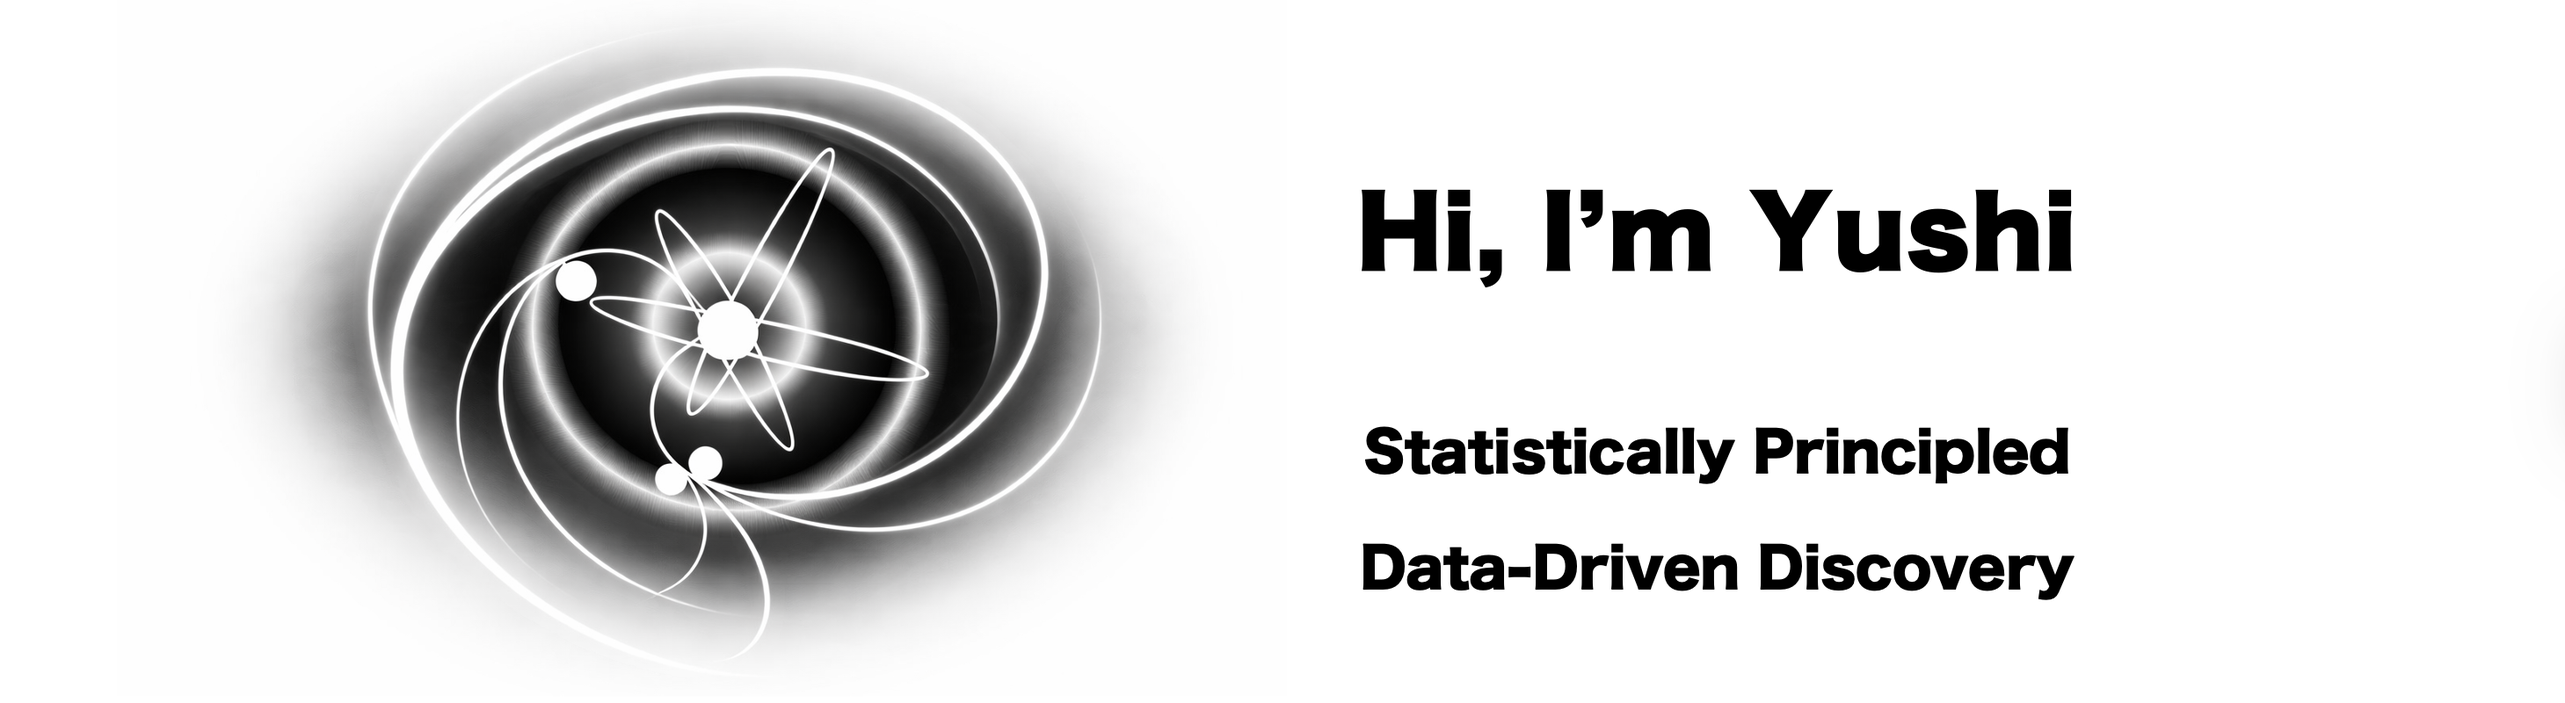
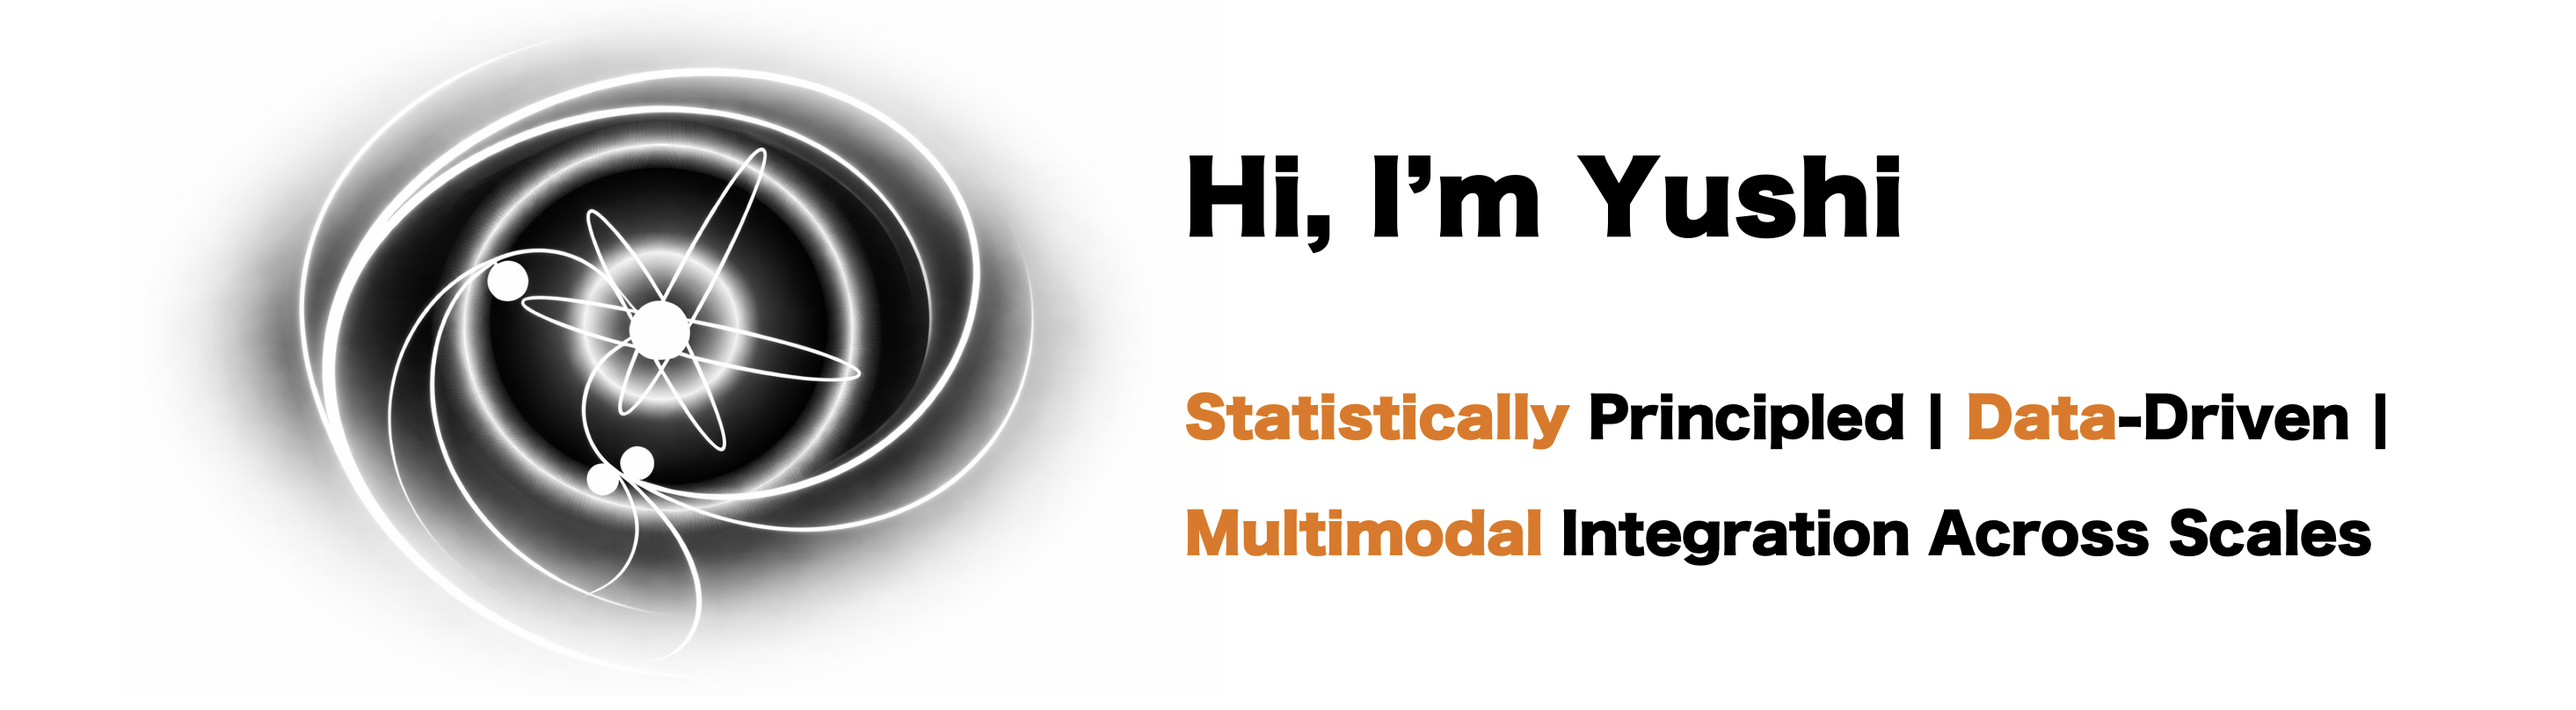
fix broken links and update title

Changed region(s): [[0.0624, 0.0938, 0.9356, 0.875]]

diff --git a/404.html b/404.html
@@ -8,40 +8,34 @@
     <meta name="author" content="Yushi Tang">
     <meta name="description" content="Yushi Tang&#39;s personal website">
     <meta name="keywords" content="blog, website, researcher">
-    
+
     <meta property="og:site_name" content="Yushi Tang">
     <meta property="og:title" content="Yushi Tang">
     <meta property="og:description" content="Yushi Tang&#39;s personal website">
     <meta property="og:type" content="website">
-    <meta property="og:url" content="https://yushift.github.io/404.html">
+    <meta property="og:url" content="https://yushift.github.io/">
     <meta property="og:image" content="https://yushift.github.io/">
     <meta name="twitter:card" content="summary">
-    <meta name="twitter:site" content="https://yushift.github.io/404.html">
+    <meta name="twitter:site" content="https://yushift.github.io/">
     <meta name="twitter:image" content="https://yushift.github.io/">
 
-    <base href="https://yushift.github.io/404.html">
+    <base href="https://yushift.github.io/">
     <title>Yushi Tang</title>
 
-    <link rel="canonical" href="https://yushift.github.io/404.html">
-    
-    <link  rel="stylesheet" href="https://fonts.googleapis.com/css?family=Fira+Mono:400,700">
+    <link rel="canonical" href="https://yushift.github.io/">
+
+    <link rel="stylesheet" href="https://fonts.googleapis.com/css?family=Fira+Mono:400,700">
     <link rel="stylesheet" href="https://yushift.github.io/css/normalize.min.css">
     <link rel="stylesheet" href="https://yushift.github.io/css/style.min.css">
-
-    
-
-    
 
     <link rel="icon" type="image/png" href="https://yushift.github.io/images/favicon-32x32.png" sizes="32x32">
     <link rel="icon" type="image/png" href="https://yushift.github.io/images/favicon-16x16.png" sizes="16x16">
 
-    
-      <link rel="alternate" href="https://yushift.github.io/index.xml" type="application/rss+xml" title="Yushi Tang">
-      <link href="https://yushift.github.io/index.xml" rel="feed" type="application/rss+xml" title="Yushi Tang" />
-    
+    <link rel="alternate" href="https://yushift.github.io/index.xml" type="application/rss+xml" title="Yushi Tang">
+    <link href="https://yushift.github.io/index.xml" rel="feed" type="application/rss+xml" title="Yushi Tang" />
+
 
     <meta name="generator" content="Hugo 0.55.6" />
-    
     <style>
       footer {
         text-align: center;
@@ -51,75 +45,40 @@
         color: white;
       }
      </style>
-    
   </head>
 
   <body class="">
     <main class="wrapper">
       <nav class="navigation">
+
   <section class="container">
     <a class="navigation-title" href="/">Yushi Tang</a>
     <input type="checkbox" id="menu-control"/>
     <label class="menu-mobile  float-right " for="menu-control">
       <span class="btn-mobile  float-right ">&#9776;</span>
       <ul class="navigation-list">
-        
-          
             <li class="navigation-item  align-center ">
-              <a class="navigation-link" href="https://yushift.github.io/en/about/about_me.html">About</a>
+              <a class="navigation-link" href="https://yushift.github.io/en/publication/publication_summary.html">Publication</a>
             </li>
-          
-            <li class="navigation-item  align-center ">
-              <a class="navigation-link" href="https://yushift.github.io/en/research/research_summary.html">Research</a>
-            </li>
-          
-            <li class="navigation-item  align-center ">
-              <a class="navigation-link" href="https://yushift.github.io/en/cv/yushi_tang_cv.pdf">CV</a>
-            </li>
-          
-            <li class="navigation-item  align-center ">
-              <a class="navigation-link" href="https://yushift.github.io/en/blog/yushi_blog.html">Blog</a>
-            </li>
-          
             <li class="navigation-item  align-center ">
               <a class="navigation-link" href="https://yushift.github.io/en/teaching/teaching_summary.html">Teaching</a>
             </li>
-          
             <li class="navigation-item  align-center ">
               <a class="navigation-link" href="https://yushift.github.io/en/software/software_summary.html">Software</a>
             </li>
-          
             <li class="navigation-item  align-center ">
-              <a class="navigation-link" href="https://yushift.github.io/en/contact/contact_yushi.html">Contact</a>
+              <a class="navigation-link" href="mailto:yushi.tang@princeton.edu">Contact</a>
             </li>
-          
-        
-        
-          
-          
-          
             <li class= " mobile-menu-lang-separator-centered ">
               <hr />
             </li>
-          
-          
-            
-          
-            
-              
-                
-                  <li class="multilingual-separator">
-                    <p>|</p>
-                  </li>
-                
-                
-              
-              <li class="navigation-item  align-center ">
-                <a href="https://yushift.github.io/zh/">中文</a>
-              </li>
-            
-          
-        
+            <li class="multilingual-separator">
+              <p>|</p>
+            </li>
+            <li class="navigation-item  align-center ">
+              <a href="https://yushift.github.io/zh/">中文</a>
+            </li>
+
       </ul>
     </label>
   </section>
@@ -127,30 +86,63 @@
 
 
       <div class="content">
-        
-  <section class="container centered">
-  <div class="error">
-    <h1>404</h1>
-    <h2>Page Not Found</h2>
-    <p>Sorry, this page does not exist.<br />You can head back to <a href="https://yushift.github.io/">homepage</a>.</p>
-  </div>
-</section>
 
+
+  <section class="container">
+  <div class="about">
+
+    <img src="https://yushift.github.io/images/title.png" alt="avatar">
+
+    <hr style="border: none; height: 1px; background-color: #dcdcdc; width: 100%; margin: 5px auto;">
+
+    <div class="about centered">
+    <ul>
+      <a href="https://yushift.github.io/en/about/bio.html">Bio</a>
+    </ul>
+    <ul>
+      <a href="https://yushift.github.io/en/research/research_summary.html">Research</a>
+    </ul>
+    <ul>
+      <a href="https://scholar.google.com/citations?user=VSPpxuUAAAAJ&hl=en">GS</a>
+    </ul>
+    <ul>
+      <a href="https://yushift.github.io/en/contact/contact_summary.html">Contact</a>
+    </ul>
+    </div>
+
+    <hr style="border: none; height: 1px; background-color: #dcdcdc; width: 100%; margin: 5px auto;">
+
+
+    <p>I am a biostatistics researcher interested in causal inference,
+      statistical learning, and trustworthy AI, with an emphasis on developing
+      rigorous and scalable methodologies for genetics, genomics, biomedical,
+      and environmental data.</p>
+
+    <p>I received my Ph.D. in <a href="https://lsi.princeton.edu/people/yushi-tang">Quantitative
+      and Computational Biology</a> with a Graduate Certificate in
+      <a href="https://csml.princeton.edu/graduate/graduate-certificate-program">Statistics and Machine Learning</a>
+      from <a href="https://www.princeton.edu/">Princeton University</a>, where
+      I was advised by Professor <a href="https://jdstorey.org/">John D. Storey</a>. </p>
+
+    <p>Before Princeton, I received a Master of Science from the Department of Biostatistics
+      at <a href="https://www.harvard.edu/">Harvard University</a> in 2019, and received Bachelor of Science and
+      Bachelor of Economics from <a href="https://english.pku.edu.cn/">Peking University</a> in 2017.</p>
+
+
+  </div>
+  </section>
 
       </div>
-      
+
       <footer>
-        <ul><p>&copy 2019-2020 Yushi Tang | Website design modified from the 
-        <a class="navigation-link" herf="https://themes.gohugo.io/hugo-coder/">Coder</a> and 
-        <a class="navigation-link" herf="https://themes.gohugo.io/hugo-coder-portfolio/">Coder Portfolio</a> theme for 
-        <a class="navigation-link" herf="https://gohugo.io/">Hugo</a>.</p></ul>
+        <ul><p>&copy 2019-2026 Yushi Tang</p></ul>
       </footer>
-      
+
     </main>
 
-    
+
 
   <script src="https://yushift.github.io/js/app.js"></script>
-  
+
   </body>
 </html>
